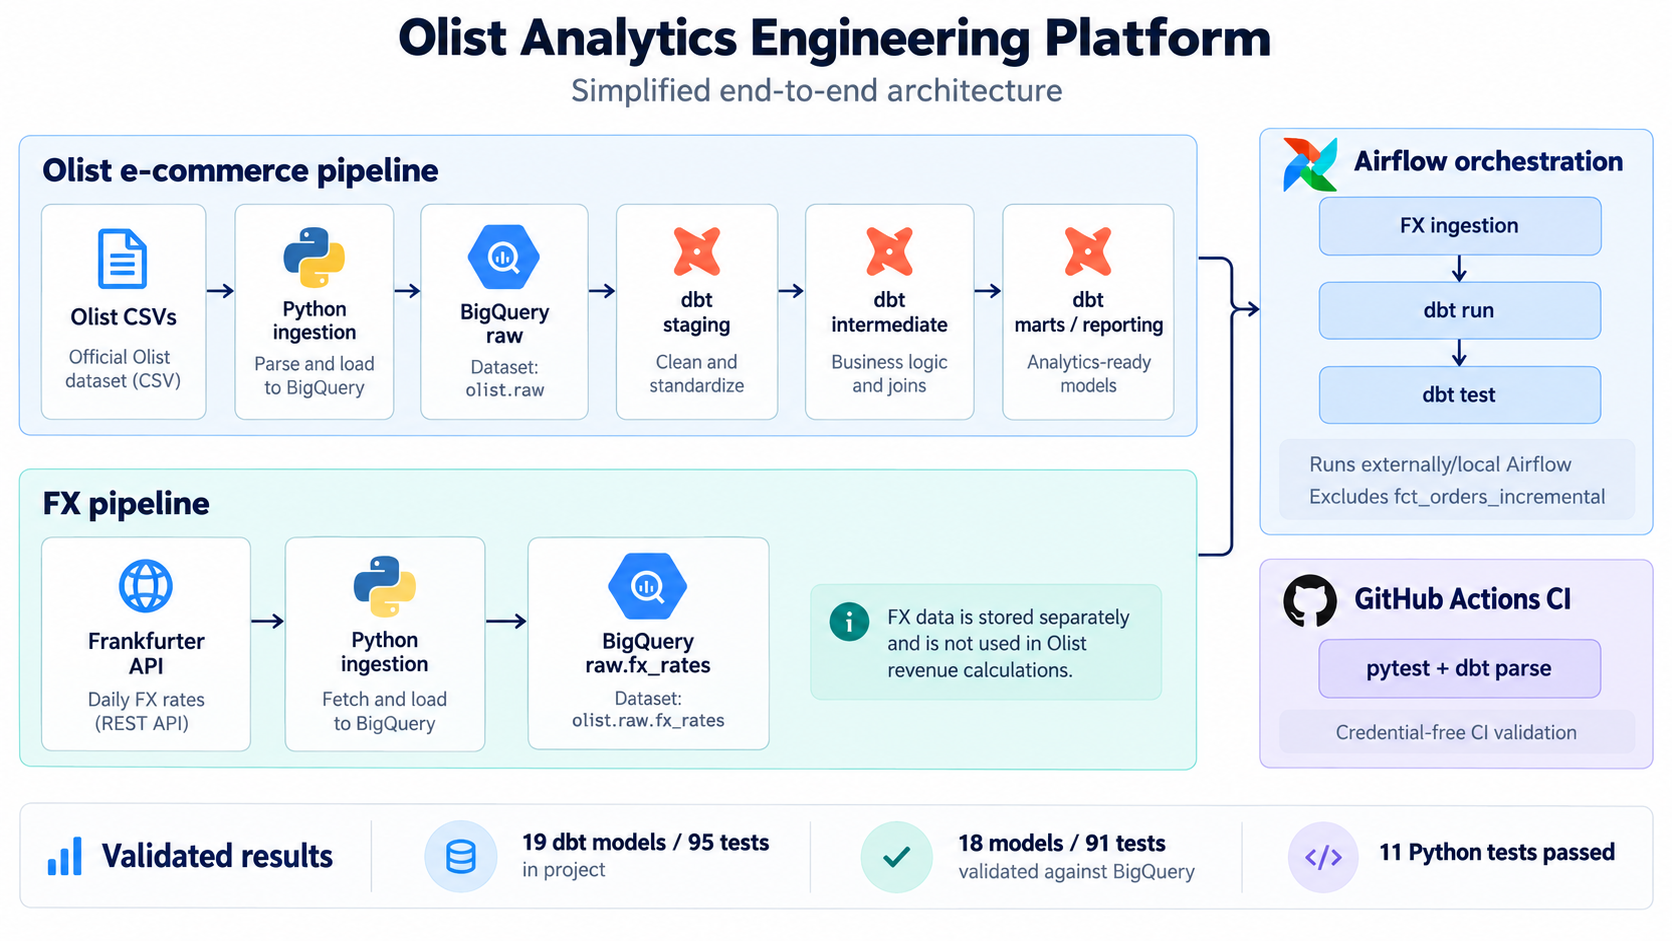
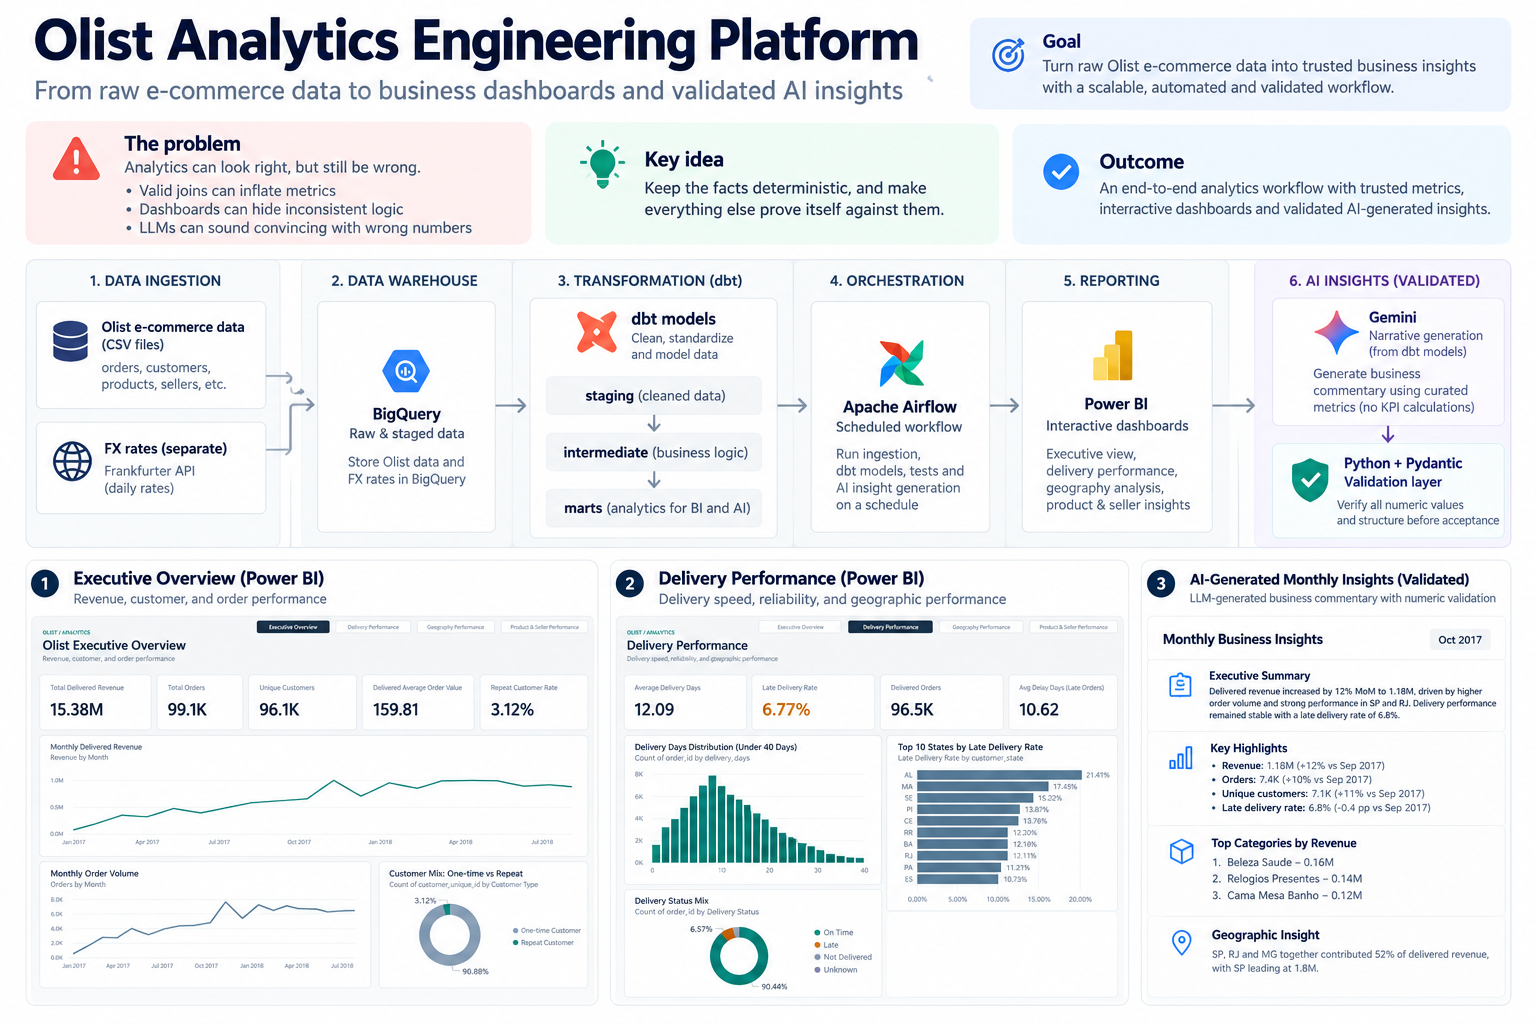
Refresh portfolio visuals

diff --git a/README.md b/README.md
@@ -18,7 +18,7 @@ This is a locally validated portfolio project, not a production deployment.
 
 ![Olist Analytics Engineering Platform architecture](docs/images/architecture-diagram.png)
 
-The diagram shows the Olist pipeline, separate FX pipeline, local/external Airflow orchestration, and GitHub Actions CI. The implemented analytics flow continues from the BigQuery/dbt analytical layer to Power BI for stakeholder reporting and Gemini-based validated business insight generation. Airflow orchestrates FX ingestion, dbt execution and testing, and AI insight generation.
+The infographic highlights the analytics trust problem and the workflow: Olist ingestion into BigQuery, dbt staging/intermediate/mart layers, Airflow orchestration, Power BI reporting, and validated Gemini-generated insights, alongside separate FX ingestion.
 
 Olist and FX are separate pipelines. FX rates are not used in Olist revenue calculations. Airflow sequences their execution; this does not imply a data dependency between FX and the Olist models.
 
@@ -80,6 +80,12 @@ The implemented report is stored as a Power BI Project (PBIP/PBIR) under [dashbo
 
 ![Power BI Executive Overview showing revenue and customer KPIs, monthly trends, and customer mix](docs/images/powerbi-executive-overview.jpg)
 
+![Power BI Delivery Performance showing delivery times, late-delivery rates, delivery status, and state comparisons](docs/images/powerbi-delivery-performance.jpg)
+
+![Power BI Geography Performance showing state-level revenue, delivered orders, and delivery performance](docs/images/powerbi-geography-performance.jpg)
+
+![Power BI Product & Seller Performance showing merchandise KPIs, leading categories and sellers, and category detail](docs/images/powerbi-product-seller-performance.jpg)
+
 The report contains four stakeholder-facing pages with consistent page navigation:
 
 - **Executive Overview:** delivered revenue, orders, customers, average order value, repeat customers, and monthly trends.
@@ -88,8 +94,6 @@ The report contains four stakeholder-facing pages with consistent page navigatio
 - **Product & Seller Performance:** merchandise value, items, products, sellers, and category/seller-state analysis.
 
 [View the full four-page Power BI dashboard as PDF](docs/powerbi/olist-analytics-dashboard.pdf)
-
-![Power BI Product & Seller Performance showing merchandise KPIs, leading categories and sellers, and category detail](docs/images/powerbi-product-seller-performance.jpg)
 
 ## AI-generated monthly insights
 
